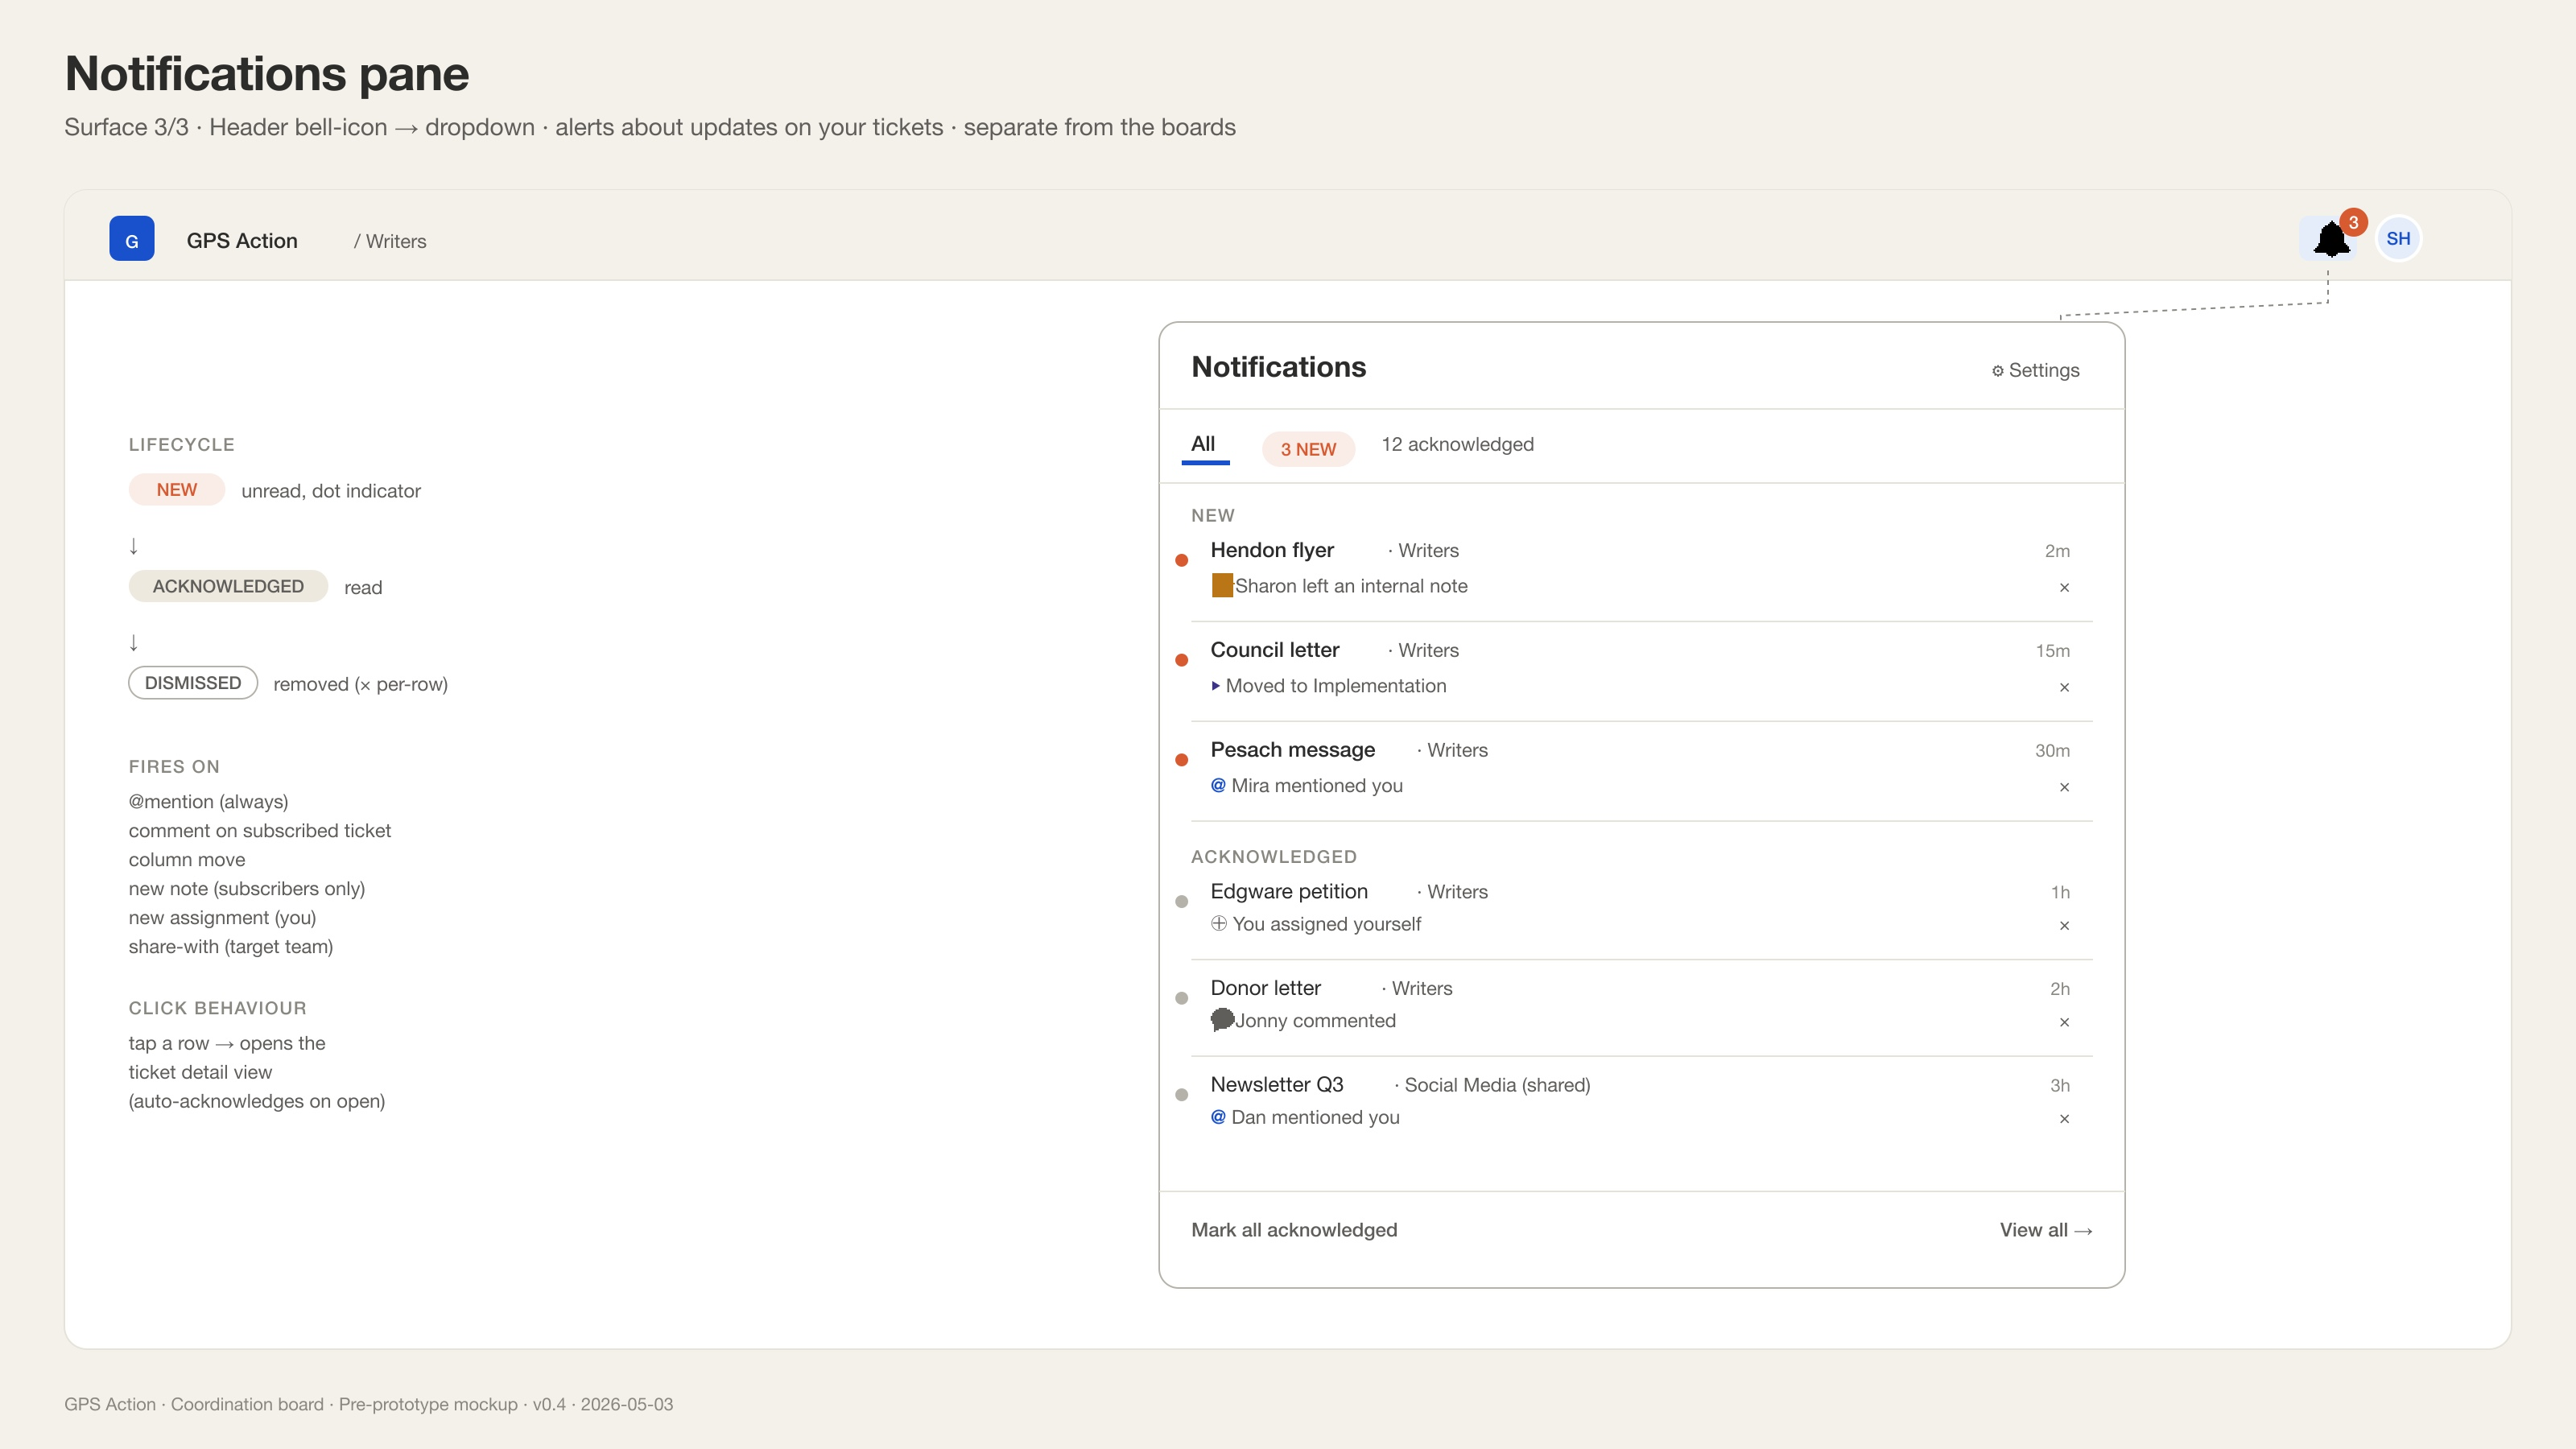
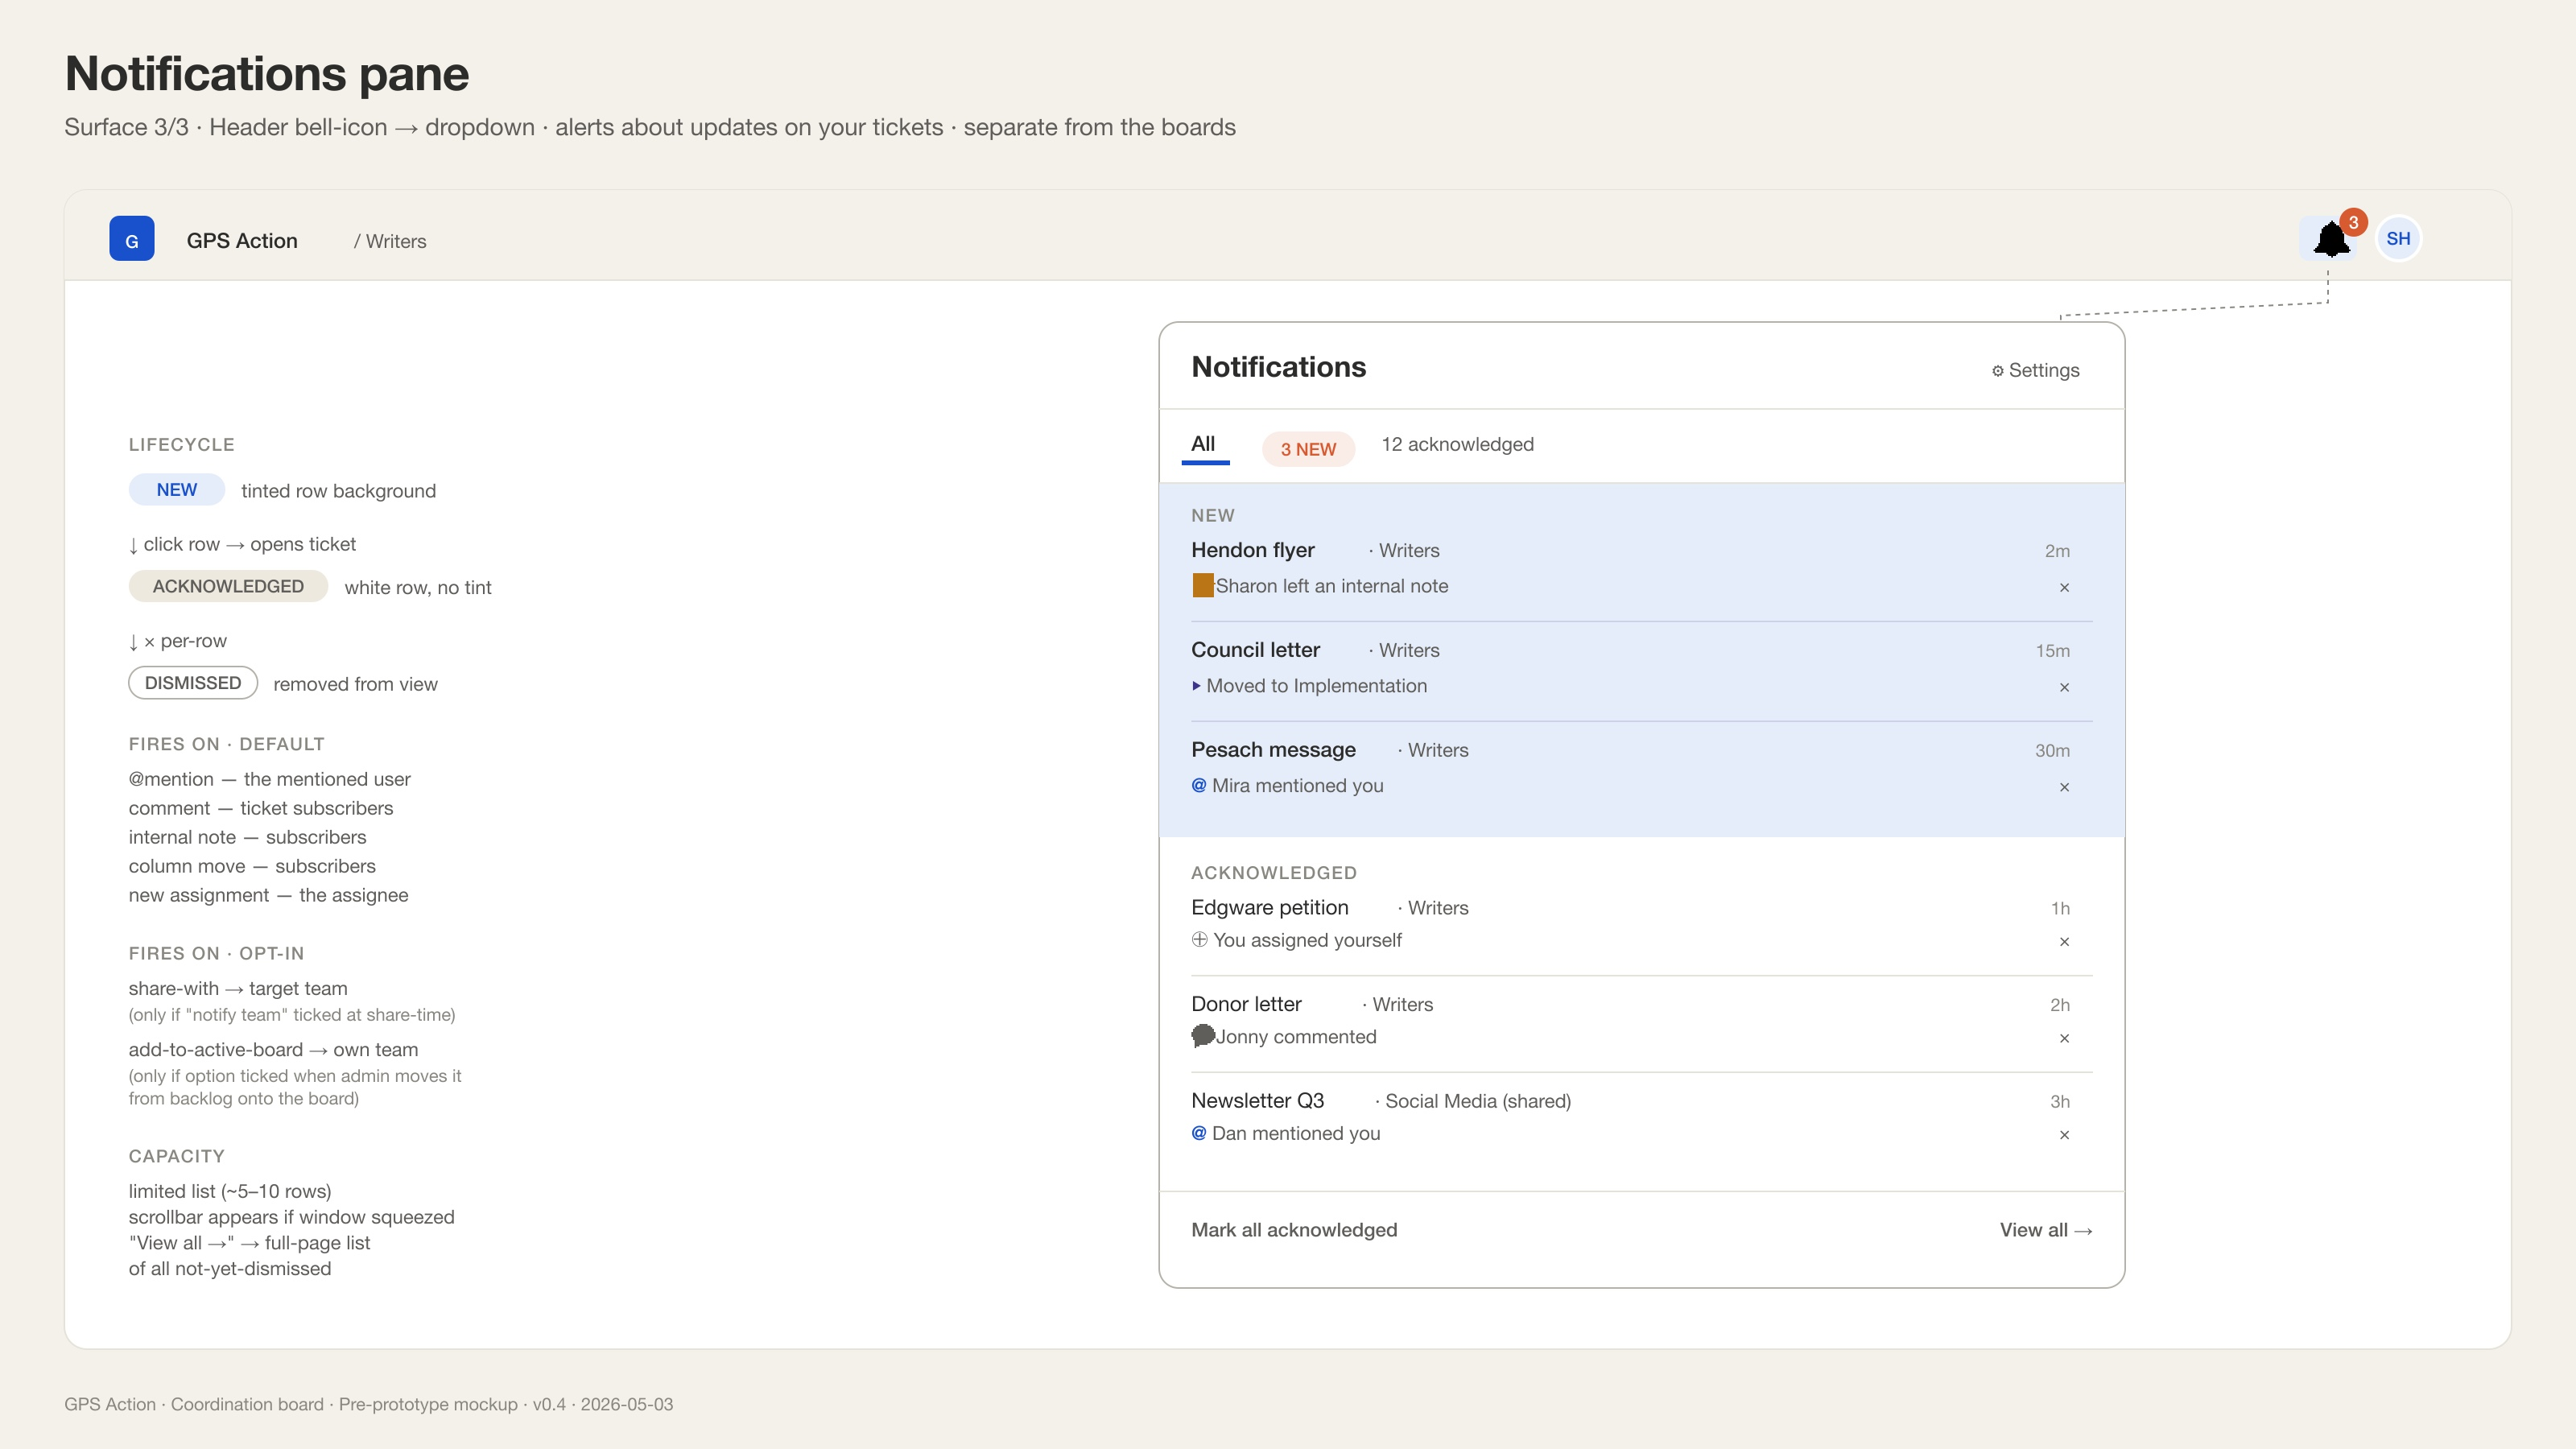
docs(coord-board): Surface 3 notifications-pane feedback iteration
Per Paul's feedback (2026-05-03 PM):

- Replace per-row brown dot indicator with a tinted (light blue,
  primary-subtle) row background covering all unacknowledged rows.
  Saves the dot's space; cleaner visual.
- Acknowledged rows render plain white (no dots, no tint).
- Click → ticket → auto-acknowledge is the only ack path. Confirmed
  in a dedicated callout. "Mark all acknowledged" footer remains as
  the bulk equivalent.
- Capacity callout added: limited list (~5–10) with auto-scrollbar
  if window squeezed; "View all →" → full-page list of all
  not-yet-dismissed.

Trigger rules sharpened (split into defaults vs opt-in):

Defaults (subscriber-driven):
  @user      → mentioned user (always)
  Comment       → ticket subscribers
  Internal note → subscribers
  Column move   → subscribers (was "all" — corrected per feedback)
  New assignment → assignee

Opt-in (team-wide blasts):
  Share-with → target team — only if "notify team" ticked at
                              share-time
  Add-to-active-board → own team — only if option ticked when
                                    admin moves from backlog onto
                                    the active board

SVG annotations rewritten to match. JPG regenerated.

diff --git a/docs/product/coordination-board-sketches/index.html b/docs/product/coordination-board-sketches/index.html
@@ -1551,29 +1551,55 @@
             desktop; full-screen overlay on mobile.
           </li>
           <li>
-            <strong>Lifecycle</strong> — New (urgent dot indicator, bold) · Acknowledged (faded,
-            read) · Dismissed (× per row, removed from view). Auto-acknowledged when the user opens
-            the linked ticket.
+            <strong>Lifecycle visual</strong> — <strong>New</strong> rows have a tinted (light blue)
+            background covering the whole row (no per-row knob — saves space).
+            <strong>Acknowledged</strong> rows are plain white. <strong>Dismissed</strong> rows are
+            removed from view via the per-row × action.
           </li>
           <li>
-            <strong>Triggers</strong> — @mention (always) · comment on a subscribed ticket · column
-            move · new internal note (only if subscribed) · new assignment to you · share-with
-            action (target team's notifications fire).
+            <strong>Acknowledging is implicit</strong> — clicking a row opens the linked ticket and
+            auto-acknowledges. There's no separate "ack" button. "Mark all acknowledged" in the
+            footer is the bulk equivalent.
+          </li>
+          <li>
+            <strong>Capacity</strong> — limited list (~5–10 rows). Scrollbar appears automatically
+            if the window is squeezed vertically. <strong>"View all →"</strong> opens a full-page
+            list of every not-yet-dismissed notification.
+          </li>
+          <li>
+            <strong>Fires on — defaults (subscriber-driven)</strong>:
+            <ul style="margin: 4px 0 0; padding-left: 18px">
+              <li><strong>@mention</strong> — the mentioned user, always.</li>
+              <li><strong>Comment</strong> — ticket subscribers.</li>
+              <li><strong>Internal note</strong> — subscribers only.</li>
+              <li><strong>Column move</strong> — subscribers only.</li>
+              <li><strong>New assignment</strong> — the assignee.</li>
+            </ul>
+          </li>
+          <li>
+            <strong>Fires on — opt-in (team-wide blasts)</strong>:
+            <ul style="margin: 4px 0 0; padding-left: 18px">
+              <li>
+                <strong>Share-with → target team</strong> — fires to the whole target team only if
+                "notify team" is ticked at share-time.
+              </li>
+              <li>
+                <strong>Add-to-active-board → own team</strong> — fires to the whole owning team
+                only if the option is ticked at the time the admin moves the ticket from backlog
+                onto the active board.
+              </li>
+            </ul>
           </li>
           <li>
             <strong>Each row shows</strong> — source ticket title (link) · group name + "shared" tag
             if cross-team · reason glyph (📝 note · ⏵ moved · @ mention · ⊕ assigned · 💬 comment) ·
-            timestamp · per-row dismiss × .
+            timestamp · per-row dismiss <code>×</code>.
           </li>
           <li>
             <strong>Cross-team awareness</strong>
             <span class="qref">Q10</span> — notifications from shared-with tickets render with the
             team name they're shared from (e.g. <code>Newsletter Q3 · Social Media (shared)</code>).
             The team-picker badge counts these.
-          </li>
-          <li>
-            <strong>Footer</strong> — "Mark all acknowledged" (sweep action) · "View all →"
-            (full-page notifications view if the dropdown gets crowded).
           </li>
           <li>
             <strong>Not an inbox</strong> — you don't reply to tickets from here. Click → opens the